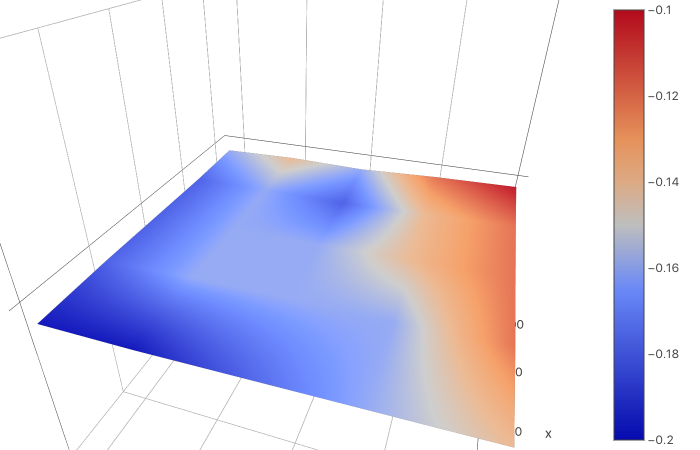
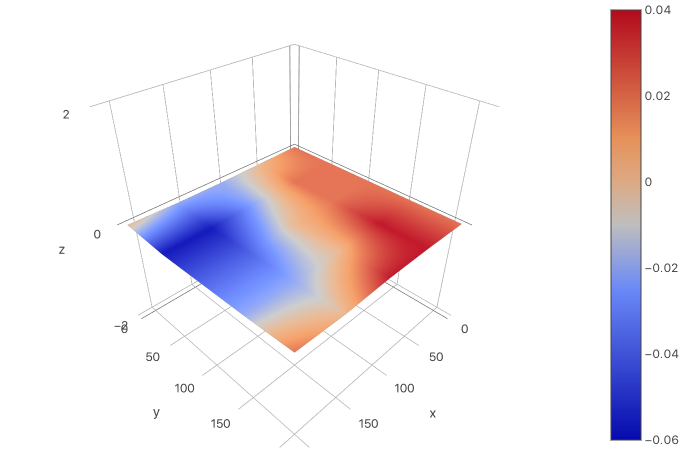
feat: Update Bed Mesh
Recalibrated after installing new stepper modules as it left it in a rough state leveling wise.

diff --git a/BEDMESH.md b/BEDMESH.md
@@ -2,29 +2,29 @@
 
 ```gcode
 M420 S0 Z0.00
-G29 S3 X1 Y1 Z-0.14000
-G29 S3 X2 Y1 Z-0.12000
-G29 S3 X3 Y1 Z-0.12000
-G29 S3 X4 Y1 Z-0.12000
-G29 S3 X5 Y1 Z-0.10000
-G29 S3 X1 Y2 Z-0.16000
-G29 S3 X2 Y2 Z-0.16000
-G29 S3 X3 Y2 Z-0.14000
-G29 S3 X4 Y2 Z-0.14000
-G29 S3 X5 Y2 Z-0.12000
-G29 S3 X1 Y3 Z-0.18000
-G29 S3 X2 Y3 Z-0.16000
-G29 S3 X3 Y3 Z-0.16000
-G29 S3 X4 Y3 Z-0.18000
-G29 S3 X5 Y3 Z-0.16000
-G29 S3 X1 Y4 Z-0.20000
-G29 S3 X2 Y4 Z-0.16000
-G29 S3 X3 Y4 Z-0.16000
-G29 S3 X4 Y4 Z-0.16000
-G29 S3 X5 Y4 Z-0.14000
-G29 S3 X1 Y5 Z-0.20000
-G29 S3 X2 Y5 Z-0.18000
-G29 S3 X3 Y5 Z-0.18000
-G29 S3 X4 Y5 Z-0.18000
-G29 S3 X5 Y5 Z-0.16000
+G29 S3 X1 Y1 Z0.02000
+G29 S3 X2 Y1 Z0.00000
+G29 S3 X3 Y1 Z-0.02000
+G29 S3 X4 Y1 Z-0.02000
+G29 S3 X5 Y1 Z0.00000
+G29 S3 X1 Y2 Z0.02000
+G29 S3 X2 Y2 Z0.02000
+G29 S3 X3 Y2 Z-0.02000
+G29 S3 X4 Y2 Z-0.06000
+G29 S3 X5 Y2 Z-0.06000
+G29 S3 X1 Y3 Z0.02000
+G29 S3 X2 Y3 Z0.02000
+G29 S3 X3 Y3 Z0.00000
+G29 S3 X4 Y3 Z-0.04000
+G29 S3 X5 Y3 Z-0.04000
+G29 S3 X1 Y4 Z0.02000
+G29 S3 X2 Y4 Z0.04000
+G29 S3 X3 Y4 Z0.00000
+G29 S3 X4 Y4 Z-0.02000
+G29 S3 X5 Y4 Z-0.02000
+G29 S3 X1 Y5 Z0.02000
+G29 S3 X2 Y5 Z0.04000
+G29 S3 X3 Y5 Z0.04000
+G29 S3 X4 Y5 Z0.00000
+G29 S3 X5 Y5 Z0.02000
 ```
